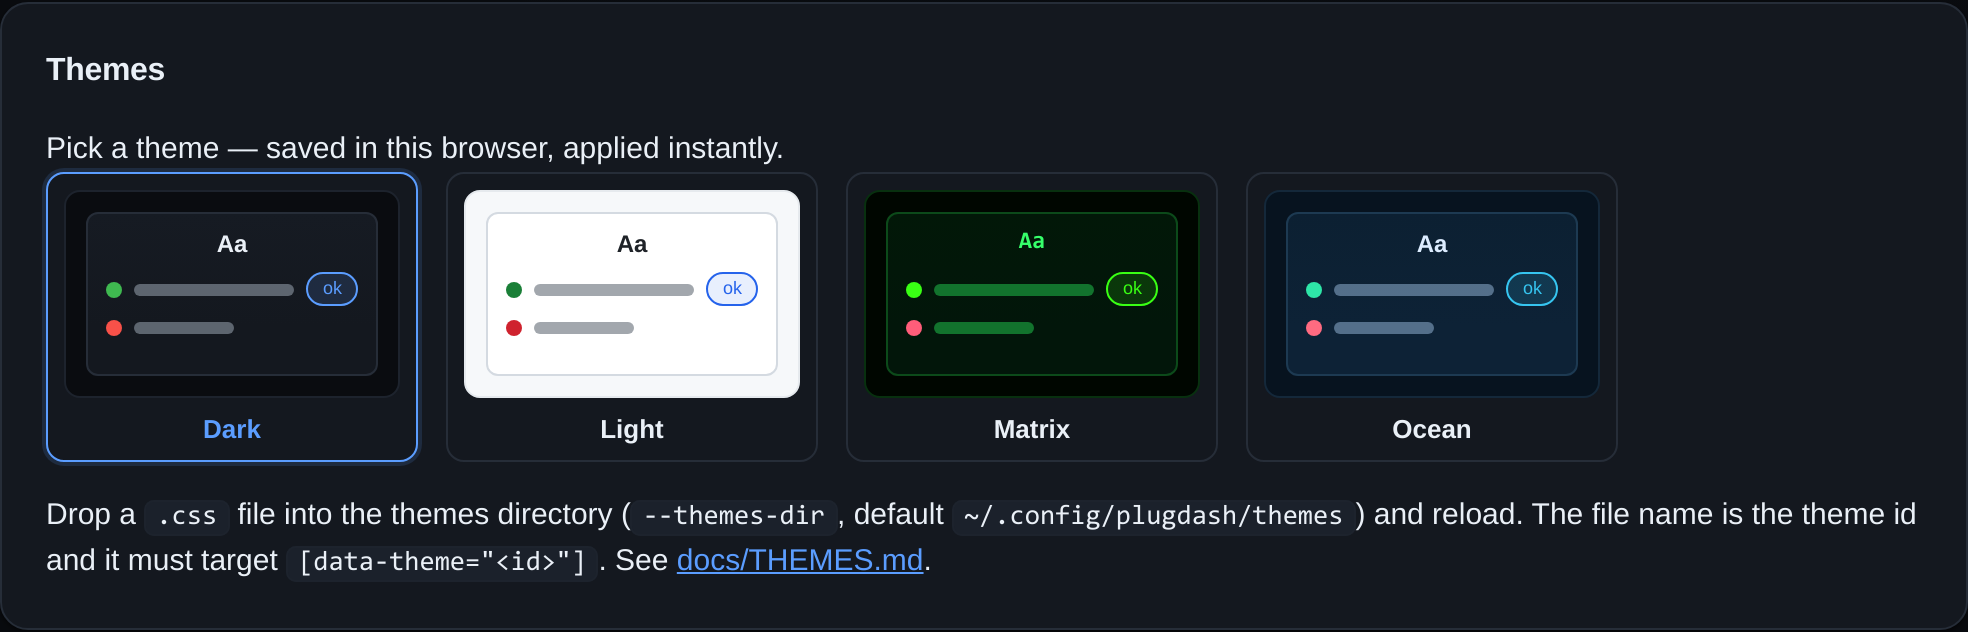
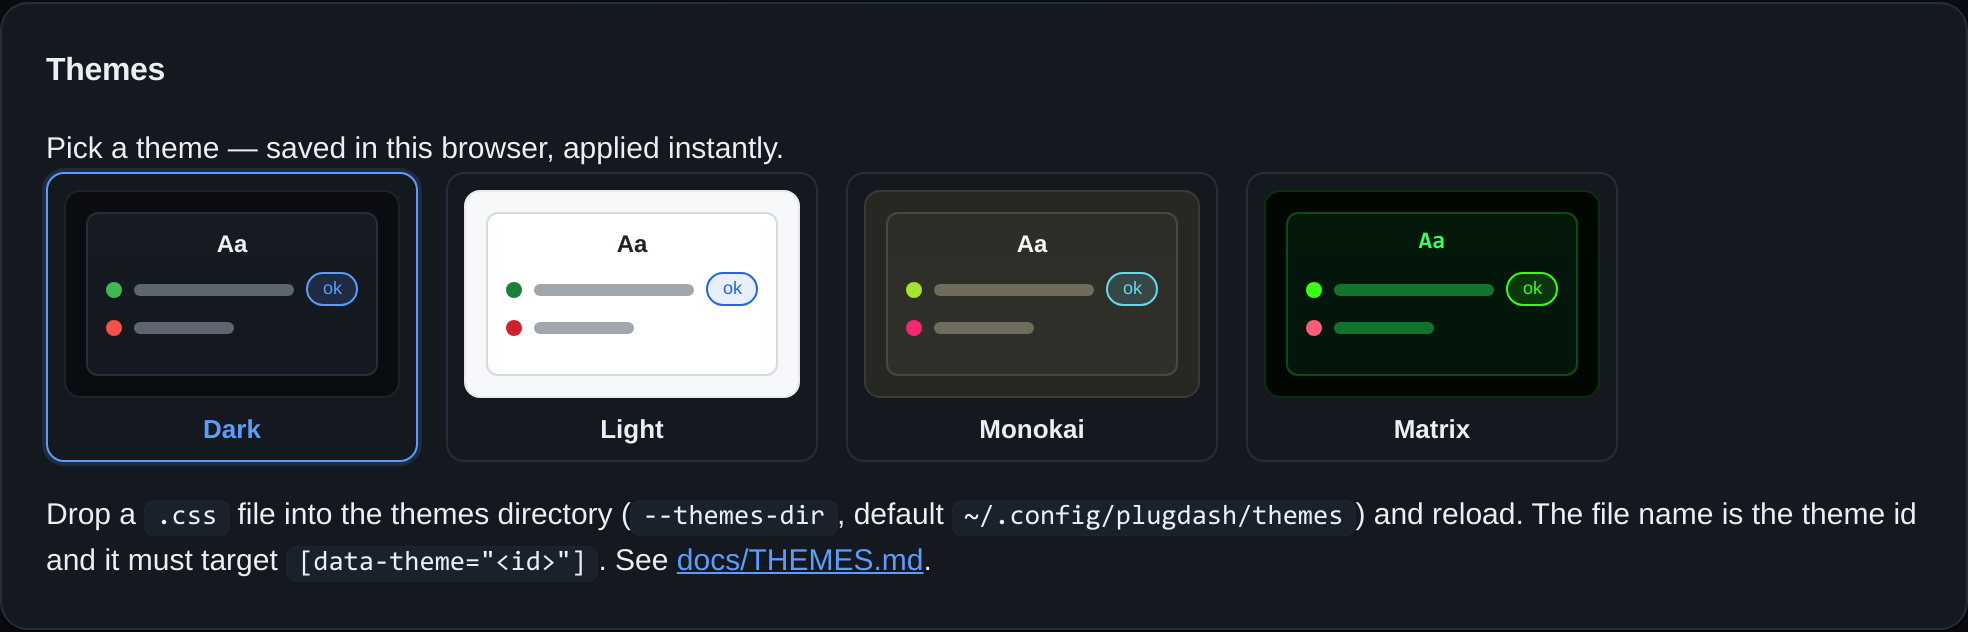
feat: add built-in Monokai theme
The classic Monokai editor palette as a fourth built-in theme (warm dark bg,
cyan accent, green/pink/yellow status). Added the [data-theme="monokai"] CSS
block and the THEMES registry entry; refreshed the picker screenshot and the
"built-in themes" wording in README/THEMES/FRONTEND.

Changed region(s): [[0.4339, 0.3006, 0.8369, 0.6313], [0.4959, 0.6614, 0.5579, 0.6915], [0.7129, 0.6614, 0.7439, 0.6915]]

diff --git a/web/assets/style.css b/web/assets/style.css
@@ -91,6 +91,31 @@
   color-scheme: dark;
 }
 
+/* ---------- Monokai theme (the classic editor palette) ---------- */
+[data-theme="monokai"] {
+  --bg: #272822;
+  --bg-elev: #2f302a;
+  --bg-elev-2: #3a3b32;
+  --border: #49483e;
+  --border-soft: #3a3b32;
+  --border-strong: #75715e;
+  --text: #f8f8f2;
+  --text-muted: #a59f85;
+  --text-dim: #75715e;
+  --accent: #66d9ef;
+  --accent-hover: #a1e9f6;
+  --accent-soft: rgba(102, 217, 239, 0.14);
+  --accent-glow: rgba(102, 217, 239, 0.4);
+  --green: #a6e22e;
+  --red: #f92672;
+  --yellow: #e6db74;
+  --pill-bg: #3a3b32;
+  --card-top: #2c2d26;
+  --topbar-bg: rgba(39, 40, 34, 0.82);
+  --on-accent: #1e1f1a;
+  color-scheme: dark;
+}
+
 /* Phosphor glow on text + a CRT scanline overlay. */
 html[data-theme="matrix"] body {
   text-shadow: 0 0 2px rgba(57, 255, 20, 0.45);

diff --git a/web/assets/app.js b/web/assets/app.js
@@ -2155,6 +2155,7 @@ function setupTheme() {
 const THEMES = [
   { id: "dark", label: "Dark" },
   { id: "light", label: "Light" },
+  { id: "monokai", label: "Monokai" },
   { id: "matrix", label: "Matrix" },
 ];
 

diff --git a/README.md b/README.md
@@ -24,9 +24,9 @@ binary with the frontend embedded.
 - **Per-widget sizing & text size.** Widgets can ask for a wider/taller tile, and
   a per-browser text-size preference packs more info per card or makes it easier
   to read.
-- **Themes.** Dark, light, and a green-CRT **matrix** theme — pick one (with a
-  live preview) in **Settings → Themes** — or drop your own CSS file in the
-  themes dir to re-skin the whole UI. See [docs/THEMES.md](docs/THEMES.md).
+- **Themes.** Dark, light, Monokai, and a green-CRT **matrix** theme — pick one
+  (with a live preview) in **Settings → Themes** — or drop your own CSS file in
+  the themes dir to re-skin the whole UI. See [docs/THEMES.md](docs/THEMES.md).
 - **Live updates over SSE.** The browser subscribes to a stream
   (`/api/stream`) and results are pushed as they're ready — no manual reload.
   A **Live** toggle (on by default) controls it.

diff --git a/docs/THEMES.md b/docs/THEMES.md
@@ -1,7 +1,7 @@
 # Themes
 
-plugdash ships three built-in themes — **Dark** (default), **Light**, and
-**Matrix** (green CRT) — and lets you drop in your own as plain CSS files. Pick a
+plugdash ships four built-in themes — **Dark** (default), **Light**, **Monokai**,
+and **Matrix** (green CRT) — and lets you drop in your own as plain CSS files. Pick a
 theme in **Settings → Themes**; the choice is saved per browser.
 
 ## How themes work

diff --git a/docs/FRONTEND.md b/docs/FRONTEND.md
@@ -326,7 +326,7 @@ are described under "Dashboard rendering" above.
 
 ### Themes
 
-Themes are `dark` (default), `light`, and `matrix` (green CRT). They are CSS
+Themes are `dark` (default), `light`, `monokai`, and `matrix` (green CRT). They are CSS
 variable blocks selected by `[data-theme="…"]` (dark is `:root`), applied to
 `<html>` by `applyTheme(id)` and persisted to `localStorage` (`plugdash:theme`).
 The inline pre-paint script in `index.html` re-applies the saved theme before